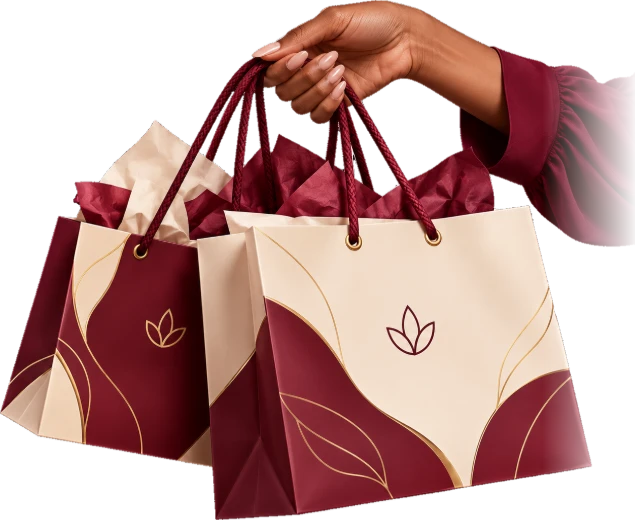
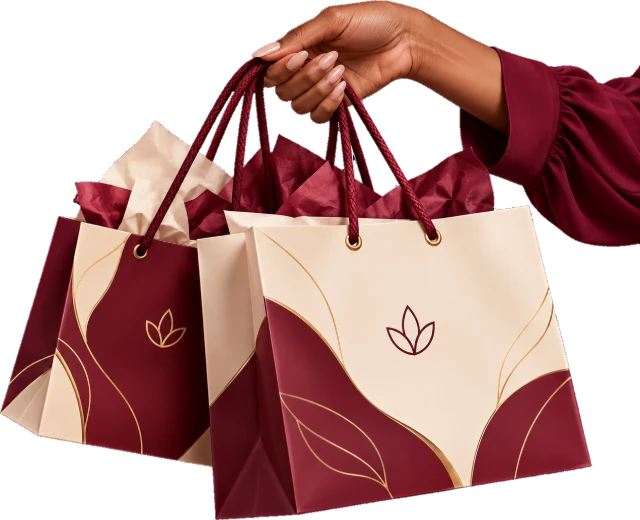
Landing: new Anyone picture, bags sleeve runs into the frame edge
Claude-Session: https://claude.ai/code/session_012wYL95FeHvN21Suxf4B9km

diff --git a/src/pages/Landing.tsx b/src/pages/Landing.tsx
@@ -48,8 +48,8 @@ type Who = { k: string; icon: ReactNode; t: string; d: string; photo: { src: str
 const WHO: Who[] = [
   { k: 'free', icon: <PersonIcon />, t: 'Freelancers', d: 'Look professional from your very first client. Send invoices and contracts with your own name and signature.', photo: { src: './images/freelancer.webp', w: 610, h: 520, alt: 'A freelancer in a headset smiling at her laptop.' } },
   { k: 'shop', icon: <ShopIcon />, t: 'Small businesses and shop owners', d: 'Keep every invoice, receipt and agreement in one place, and always know who has paid.', photo: { src: './images/business.webp', w: 820, h: 520, alt: 'A shop owner in an apron writing in a notebook beside boxed orders.' } },
-  { k: 'growing', icon: <BarsIcon />, t: 'Growing brands', d: 'Keep one consistent look on everything you send out, from invoices to contracts.', photo: { src: './images/brand.webp', w: 635, h: 520, alt: 'A range of branded packaging, boxes, bottles and shopping bags.' } },
-  { k: 'anyone', icon: <PeopleIcon />, t: 'Anyone', d: 'If you need an invoice, receipt or contract, Generate is for you.', photo: { src: './images/anyone.webp', w: 484, h: 520, alt: 'A smiling young man with a backpack, headphones and notebooks.' } },
+  { k: 'growing', icon: <BarsIcon />, t: 'Growing brands', d: 'Keep one consistent look on everything you send out, from invoices to contracts.', photo: { src: './images/brand.webp', w: 640, h: 520, alt: 'A range of branded packaging, boxes, bottles and shopping bags.' } },
+  { k: 'anyone', icon: <PeopleIcon />, t: 'Anyone', d: 'If you need an invoice, receipt or contract, Generate is for you.', photo: { src: './images/anyone.webp', w: 729, h: 520, alt: 'A young man and a young woman chatting, both carrying bags and notebooks.' } },
 ]
 
 export default function Landing() {

diff --git a/src/styles/landing.css b/src/styles/landing.css
@@ -415,3 +415,6 @@ html{scroll-behavior:smooth}
   .sc.file b{font-size:2.4cqw}
   .sc-time{font-size:1.8cqw}
 }
+
+/* the sleeve in the growing brands picture runs straight into the edge of its frame */
+.lp-frame.growing .lp-pic>img.lp-cut{padding-right:0;object-position:right bottom}
